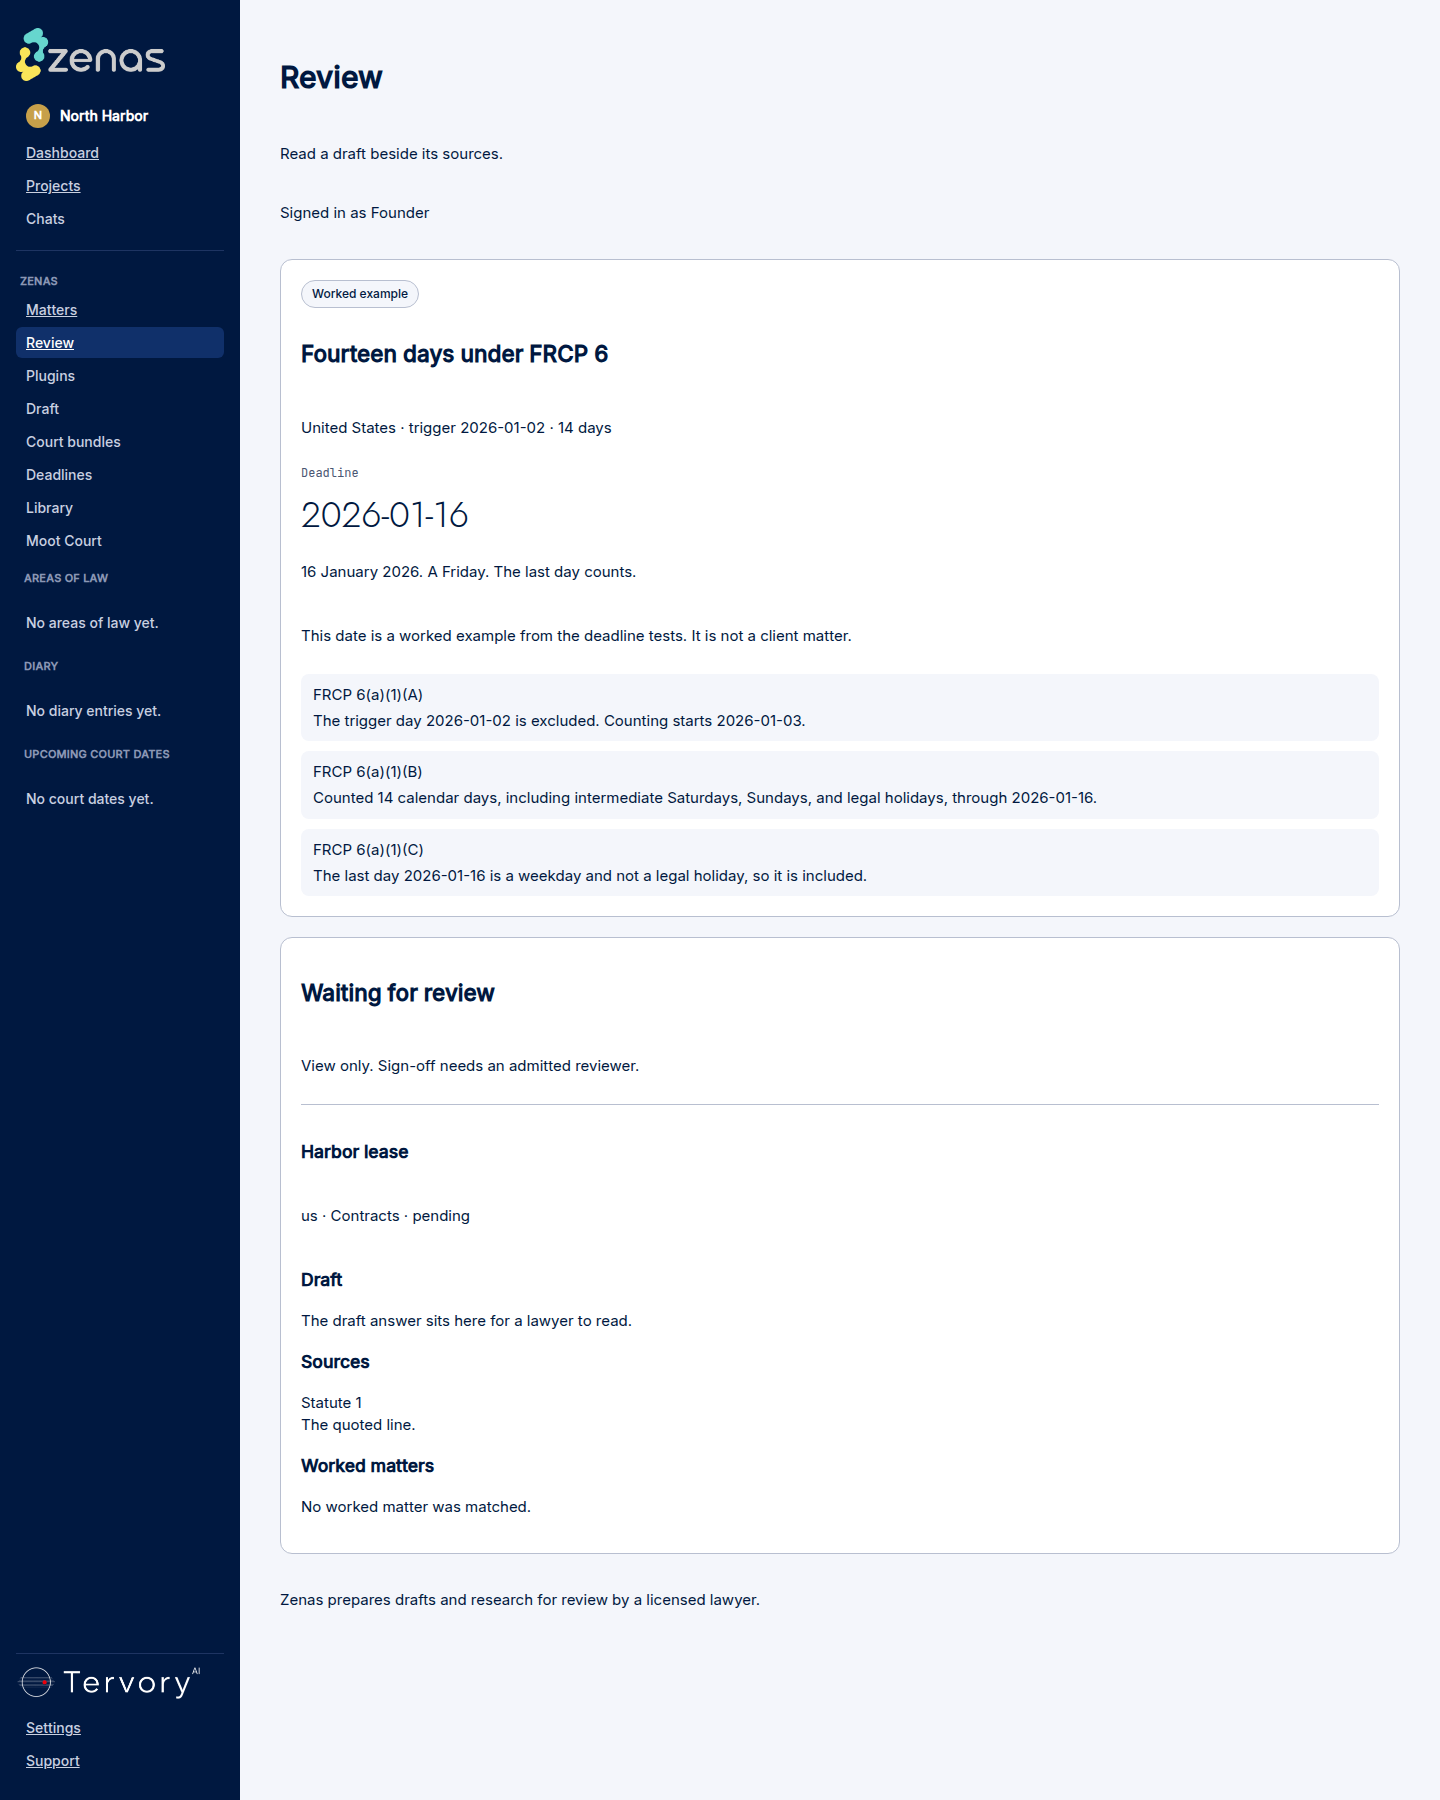
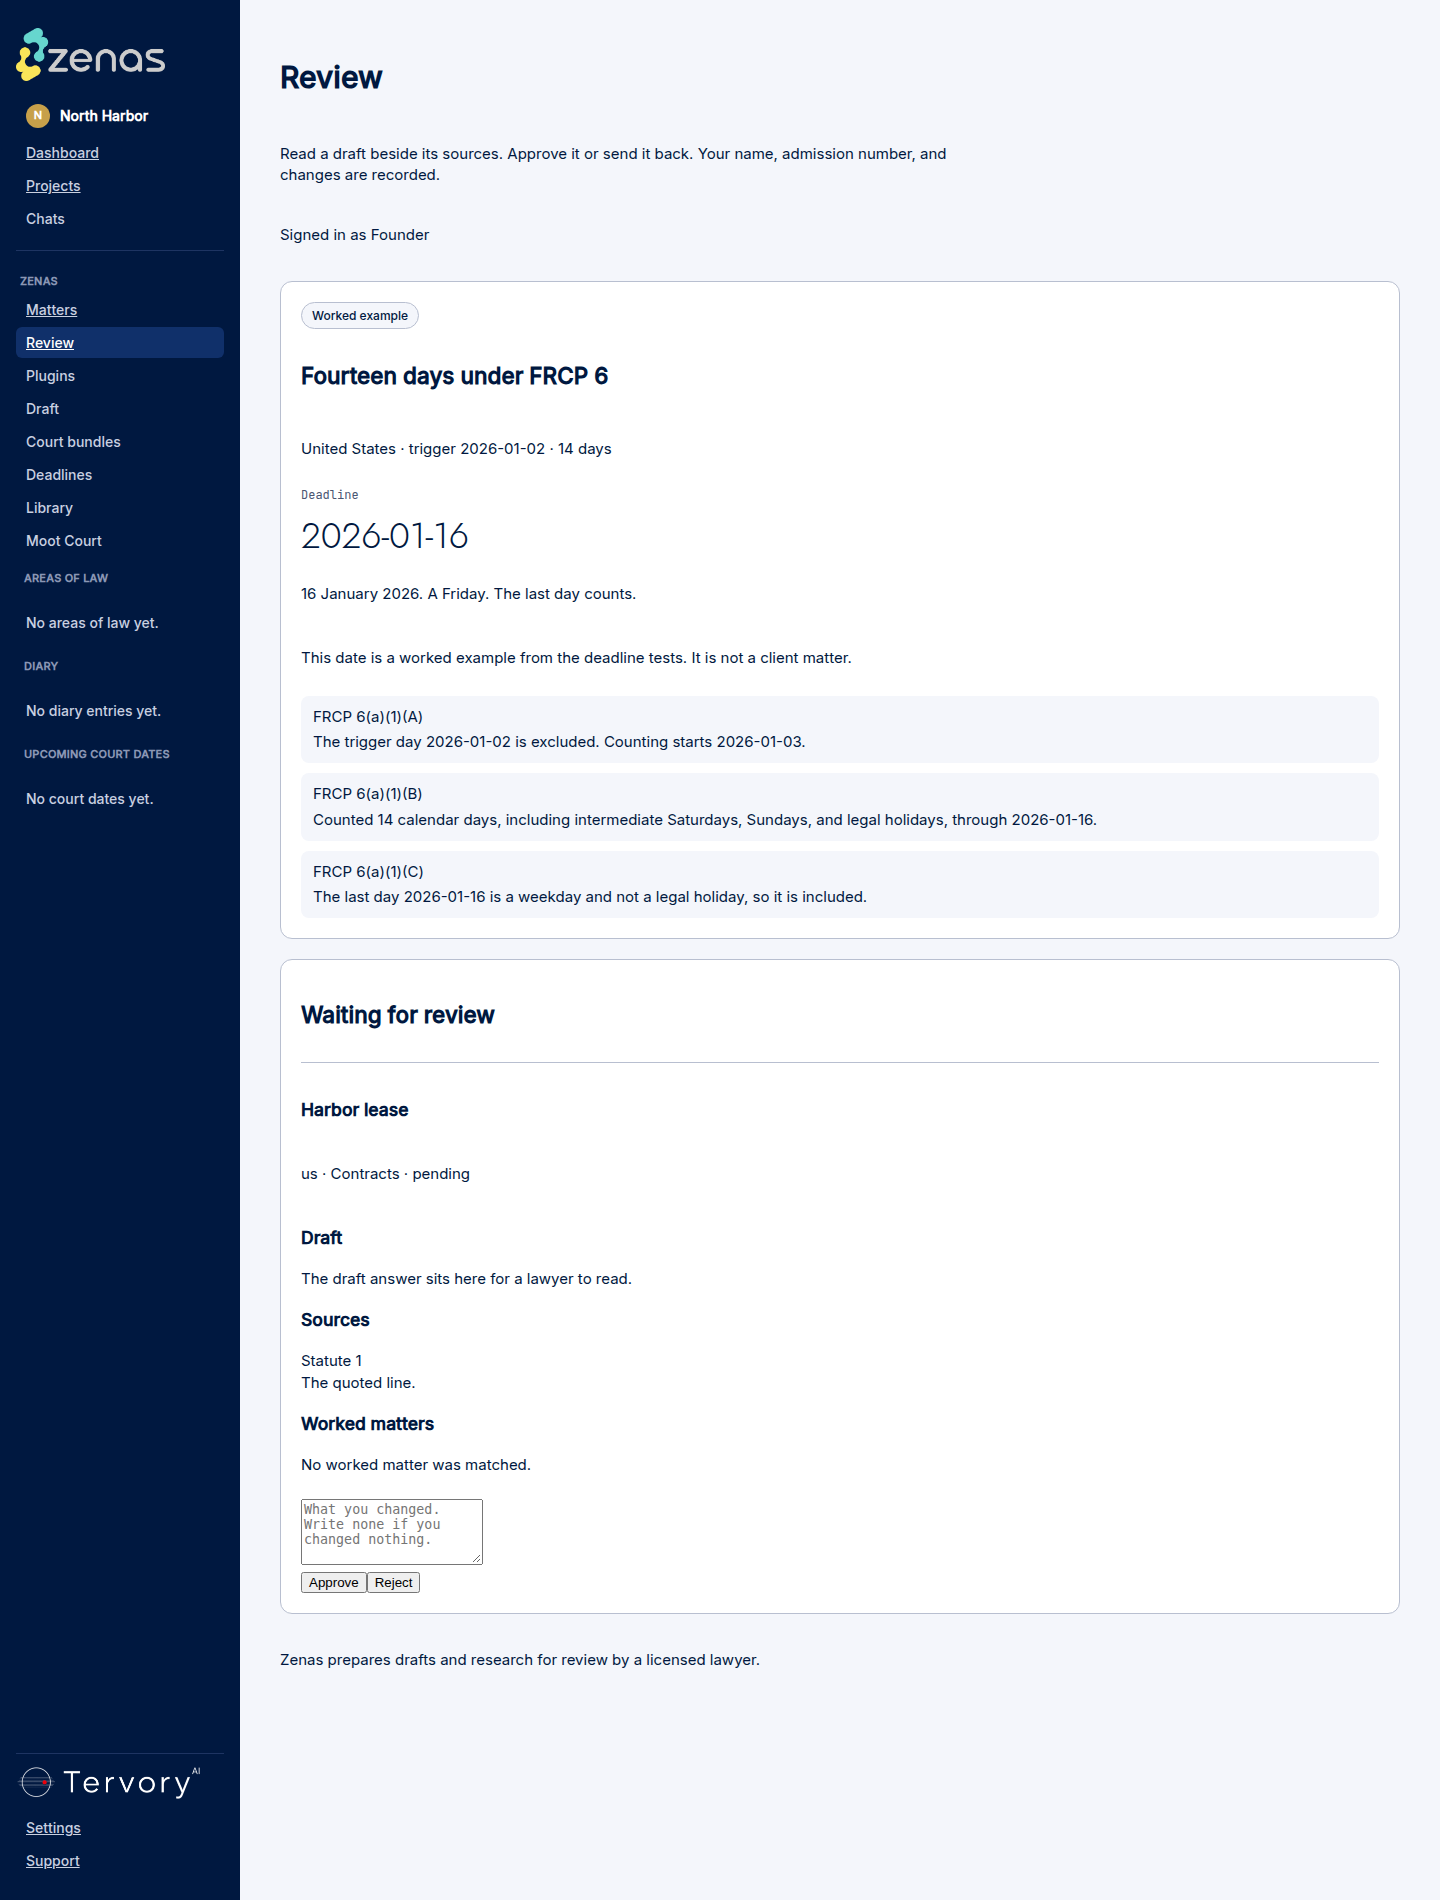
PAGES-FIX: let founders sign off on review
A founder can open both queues and approve or reject in either jurisdiction. A reviewer still needs the role, an admission number, and a matching jurisdiction. The view-only line is gone.

diff --git a/workspace/app/review/desk.tsx b/workspace/app/review/desk.tsx
@@ -3,9 +3,8 @@
 import { useRouter } from "next/navigation";
 import { useState } from "react";
 import type { ReviewItem } from "@/app/api/zenas/rules";
-import { VIEW_ONLY } from "./founder";
 
-export function ReviewDesk({ items, note, viewOnly }: { items: ReviewItem[]; note: string; viewOnly: boolean }) {
+export function ReviewDesk({ items, note }: { items: ReviewItem[]; note: string }) {
   const router = useRouter();
   const [error, setError] = useState<string | null>(null);
   const [confirm, setConfirm] = useState<string | null>(null);
@@ -40,7 +39,6 @@ export function ReviewDesk({ items, note, viewOnly }: { items: ReviewItem[]; not
   return (
     <section className="zr-card" aria-labelledby="waiting-title">
       <h2 id="waiting-title">Waiting for review</h2>
-      {viewOnly && <p className="note">{VIEW_ONLY}</p>}
       {note && <p className="note">{note}</p>}
       {confirm && <p className="confirm">{confirm}</p>}
       {error && <p className="error">{error}</p>}
@@ -72,15 +70,13 @@ export function ReviewDesk({ items, note, viewOnly }: { items: ReviewItem[]; not
               ))}
             </section>
           </div>
-          {!viewOnly && (
-            <form onSubmit={(event) => sign(event, item)}>
-              <textarea name="changes" rows={4} placeholder="What you changed. Write none if you changed nothing." />
-              <div className="actions">
-                <button className="primary" disabled={busy} name="decision" value="approved" type="submit">Approve</button>
-                <button className="secondary" disabled={busy} name="decision" value="rejected" type="submit">Reject</button>
-              </div>
-            </form>
-          )}
+          <form onSubmit={(event) => sign(event, item)}>
+            <textarea name="changes" rows={4} placeholder="What you changed. Write none if you changed nothing." />
+            <div className="actions">
+              <button className="primary" disabled={busy} name="decision" value="approved" type="submit">Approve</button>
+              <button className="secondary" disabled={busy} name="decision" value="rejected" type="submit">Reject</button>
+            </div>
+          </form>
         </article>
       ))}
     </section>

diff --git a/tests/pages_fix_access.test.ts b/tests/pages_fix_access.test.ts
@@ -29,33 +29,41 @@ test("a reviewer with an admission number and a jurisdiction opens review", () =
   assert.deepEqual(gate?.jurisdictions, ["za"]);
 });
 
-test("a founder can view both queues and cannot sign off", () => {
+test("a founder can view and sign off in both jurisdictions", () => {
   const gate = reviewGate({
     userId: "user_founder",
     orgRole: "org:admin",
     adminIds: admins,
-    jurisdiction: "",
+    jurisdiction: "za",
     admissionNo: "",
   });
   assert.ok(gate);
+  assert.equal(gate.founder, true);
   assert.deepEqual(gate.jurisdictions, ["us", "za"]);
   const founder = { founder: true, role: "admin", admissionNo: "", jurisdictions: gate.jurisdictions };
-  assert.equal(signOffRefusal(founder, "us"), SIGN_OFF_REFUSED);
-  assert.equal(signOffRefusal(founder, "za"), SIGN_OFF_REFUSED);
-  assert.equal(signOffRefusal({
-    founder: true,
-    role: "org:reviewer",
-    admissionNo: "12345",
-    jurisdictions: ["us", "za"],
-  }, "za"), SIGN_OFF_REFUSED);
+  assert.equal(signOffRefusal(founder, "us"), null);
+  assert.equal(signOffRefusal(founder, "za"), null);
 });
 
-test("a full reviewer can sign off in their jurisdiction", () => {
+test("a reviewer without an admission number is refused", () => {
+  assert.equal(signOffRefusal({
+    founder: false,
+    role: "org:reviewer",
+    admissionNo: "",
+    jurisdictions: ["za"],
+  }, "za"), SIGN_OFF_REFUSED);
+  assert.equal(signOffRefusal({
+    founder: false,
+    role: "reviewer",
+    admissionNo: "   ",
+    jurisdictions: ["us"],
+  }, "us"), SIGN_OFF_REFUSED);
+});
+
+test("a full reviewer can sign off in their own jurisdiction only", () => {
   const reviewer = { founder: false, role: "org:reviewer", admissionNo: "12345", jurisdictions: ["za"] };
   assert.equal(signOffRefusal(reviewer, "za"), null);
   assert.equal(signOffRefusal(reviewer, "us"), "You can only sign off work in your jurisdiction.");
-  assert.equal(signOffRefusal({ ...reviewer, admissionNo: "" }, "za"), SIGN_OFF_REFUSED);
-  assert.equal(signOffRefusal({ ...reviewer, role: "admin" }, "za"), SIGN_OFF_REFUSED);
 });
 
 test("a customer and an incomplete reviewer are refused", () => {

diff --git a/workspace/app/review/founder.ts b/workspace/app/review/founder.ts
@@ -30,7 +30,6 @@ export type ReviewGateResult = {
 };
 
 export const SIGN_OFF_REFUSED = "Only an admitted reviewer can sign off.";
-export const VIEW_ONLY = "View only. Sign-off needs an admitted reviewer.";
 
 export type SignOffReviewer = {
   founder: boolean;
@@ -39,12 +38,13 @@ export type SignOffReviewer = {
   jurisdictions: readonly string[];
 };
 
-/** A review decision needs the reviewer role, an admission number, and a matching jurisdiction. A founder may view, not sign off. */
+/** A reviewer needs the role, an admission number, and a matching jurisdiction. A founder may sign off in both. */
 export function signOffRefusal(reviewer: SignOffReviewer, itemJurisdiction: string): string | null {
-  const role = reviewer.role.replace(/^org:/, "");
-  const admitted = !reviewer.founder && role === "reviewer" && reviewer.admissionNo.trim().length > 0;
-  if (!admitted) return SIGN_OFF_REFUSED;
-  const tags = reviewer.jurisdictions;
+  const tags = reviewer.founder ? ["us", "za"] : reviewer.jurisdictions;
+  if (!reviewer.founder) {
+    const role = reviewer.role.replace(/^org:/, "");
+    if (role !== "reviewer" || reviewer.admissionNo.trim().length === 0) return SIGN_OFF_REFUSED;
+  }
   const matches = itemJurisdiction === "both" ? tags.includes("us") || tags.includes("za") : tags.includes(itemJurisdiction);
   if (!matches) return "You can only sign off work in your jurisdiction.";
   return null;
@@ -63,6 +63,6 @@ export function reviewGate(input: ReviewGateInput): ReviewGateResult | null {
   return {
     founder,
     admissionNo,
-    jurisdictions: tagged.length > 0 ? tagged : ["us", "za"],
+    jurisdictions: founder ? ["us", "za"] : tagged,
   };
 }

diff --git a/workspace/app/review/console.tsx b/workspace/app/review/console.tsx
@@ -29,13 +29,11 @@ export function ReviewConsole({
   note,
   reviewer,
   account,
-  viewOnly = false,
 }: {
   items: ReviewItem[];
   note: string;
   reviewer: string;
   account: string;
-  viewOnly?: boolean;
 }) {
   const [menu, setMenu] = useState(false);
   const name = account.trim() || "Your account";
@@ -116,7 +114,7 @@ export function ReviewConsole({
       <div className="zr-body">
         <header className="zr-head">
           <h1>Review</h1>
-          <p className="lede">{viewOnly ? "Read a draft beside its sources." : "Read a draft beside its sources. Approve it or send it back. Your name, admission number, and changes are recorded."}</p>
+          <p className="lede">Read a draft beside its sources. Approve it or send it back. Your name, admission number, and changes are recorded.</p>
           <p className="meta">Signed in as {reviewer}</p>
         </header>
         <article className="zr-card" aria-labelledby="worked-example-title">
@@ -136,7 +134,7 @@ export function ReviewConsole({
             ))}
           </ol>
         </article>
-        <ReviewDesk items={items} note={note} viewOnly={viewOnly} />
+        <ReviewDesk items={items} note={note} />
         <p className="fine">Zenas prepares drafts and research for review by a licensed lawyer.</p>
       </div>
     </div>

diff --git a/workspace/app/api/zenas/documents/[id]/reviews/route.ts b/workspace/app/api/zenas/documents/[id]/reviews/route.ts
@@ -20,7 +20,8 @@ export async function POST(req: Request, context: { params: Promise<{ id: string
   const changes = (body?.changes ?? "").slice(0, 8000);
   const refusal = signOffRefusal(reviewer, jurisdiction);
   if (refusal) return NextResponse.json({ error: refusal }, { status: 403 });
-  if (!decision || !reviewerMay(reviewer.jurisdictions, jurisdiction)) {
+  const scope = reviewer.founder ? ["us", "za"] : reviewer.jurisdictions;
+  if (!decision || !reviewerMay(scope, jurisdiction)) {
     return NextResponse.json({ error: "You can only sign off work in your jurisdiction." }, { status: 403 });
   }
   try {

diff --git a/workspace/app/review/page.tsx b/workspace/app/review/page.tsx
@@ -29,7 +29,6 @@ export default async function ReviewPage() {
       items={items}
       note={note}
       reviewer={reviewer.admissionNo ? `${reviewer.name} · ${reviewer.admissionNo}` : reviewer.name}
-      viewOnly={reviewer.founder}
     />
   );
 }

diff --git a/tests/test_pages_fix.py b/tests/test_pages_fix.py
@@ -52,11 +52,12 @@ def test_each_route_file_is_present_for_a_founder():
     sign = _text(APP / "api" / "zenas" / "documents" / "[id]" / "reviews" / "route.ts")
     assert "signOffRefusal" in sign
     assert "Only an admitted reviewer can sign off." in founder
+    assert "View only" not in founder
     assert "{ status: 403 }" in sign
     desk = _text(APP / "review" / "desk.tsx")
-    assert "View only. Sign-off needs an admitted reviewer." in founder
-    assert "VIEW_ONLY" in desk
-    assert "!viewOnly" in desk
+    assert "View only" not in desk
+    assert "Approve" in desk
+    assert "viewOnly" not in desk
     assert "Request refused." in _text(APP / "rig" / "api" / "rig" / "route.ts")
     result = subprocess.run(
         ["node", "--experimental-strip-types", "--test", str(ROOT / "tests" / "pages_fix_access.test.ts")],
